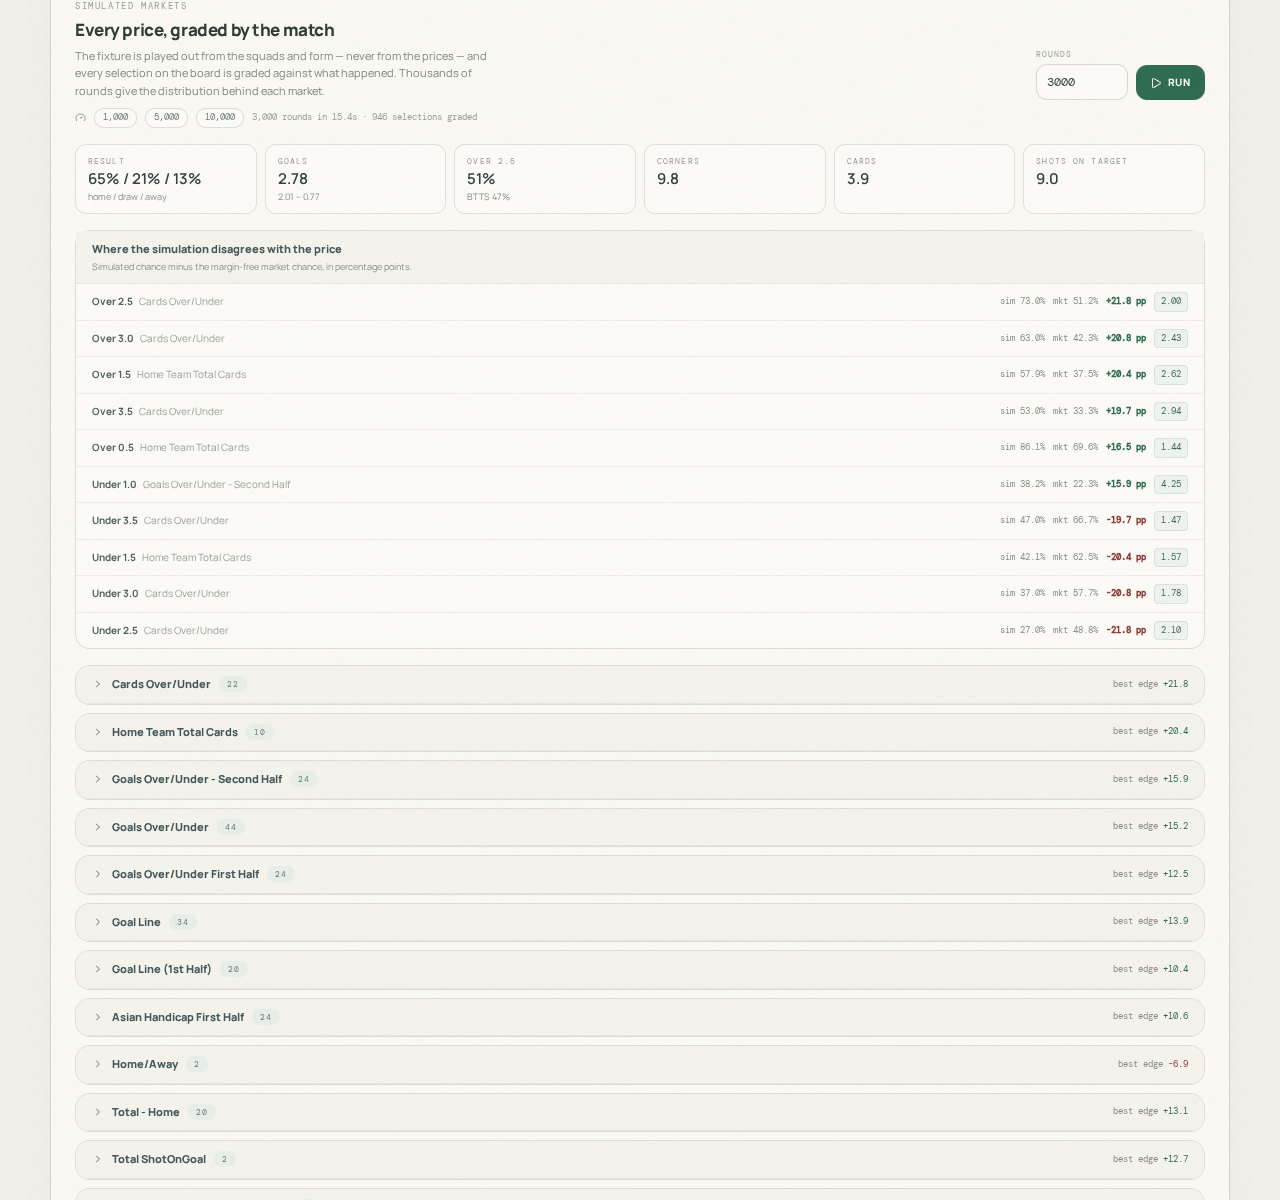
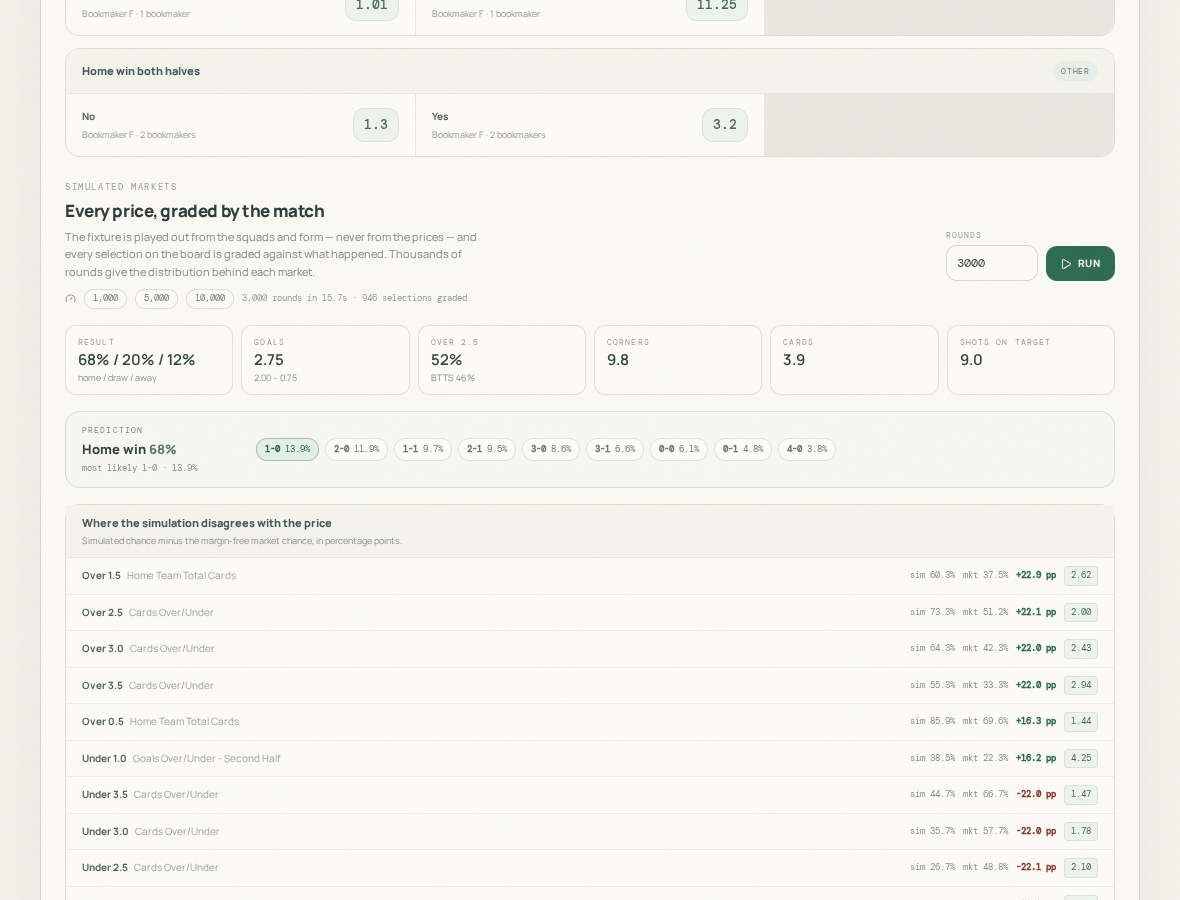
Make the engine defend, so scores look like football.
Shots were near-perfect and nothing obstructed them: a dozen headless matches
averaged 6.1 goals with 62% on target and never a 0-0. Shots now spread with
range, pressure and fatigue, defenders goal-side of the shooter block them, and
the keeper gets a save chance at the line instead of only stopping what the ball
happened to run into. The same bench now reads 2.56 goals a match with 0-0, 1-0
and 2-0 all turning up.

diff --git a/src/sim/match.js b/src/sim/match.js
@@ -1064,6 +1064,36 @@ export class Match {
     return { x: a.pos.x, z: a.pos.z, urgency: 0.3 };
   }
 
+  /**
+   * The shot has reached the line. A keeper who is a stride away from the ball
+   * still saves most of it, and even an open corner is roughly a coin flip
+   * rather than a certain goal — there is no such thing as a shot that cannot
+   * be stopped just because the striker aimed away from him.
+   */
+  keeperStops(keeper) {
+    const b = this.ball.pos;
+    const v = this.ball.vel;
+    const speed = Math.hypot(v.x, v.y, v.z);
+    const lateral = Math.abs(keeper.pos.z - b.z);
+    const reach = 0.5 + keeper.attrs.composure * 0.7;
+    let p =
+      lateral <= reach
+        ? 0.84
+        : clamp(1.15 - lateral / 5.6, 0, 0.84);
+    // Height and power beat him: the top corner is the hardest ball to stop.
+    if (b.y > 1.85) p *= 0.74;
+    if (b.y > 2.18) p *= 0.5;
+    p *= clamp(1.12 - speed / 76, 0.55, 1);
+    p *= 0.88 + keeper.attrs.composure * 0.18;
+    p *= 0.86 + keeper.stamina * 0.14;
+    if (!chance(p)) return false;
+
+    // He gets across and smothers it on the line.
+    b.x = Math.sign(b.x) * (GOAL_X - 0.45);
+    this.takePossession(keeper, speed, this.ball);
+    return true;
+  }
+
   // ---------------------------------------------------------------- perception
   perceive(a) {
     const team = this.teams[a.teamIdx];
@@ -1362,10 +1392,18 @@ export class Match {
     // accuracy: distance, pressure, technique, fatigue
     const pressure = clamp(1 - (ctx.nearestD - 1) / 3, 0, 1);
     const acc = at.shooting * 0.55 + at.composure * 0.3 + at.flair * 0.15;
-    const spreadRad = (0.062 + (1 - acc) * 0.15) * (1 + dist / 50) * (1 + pressure * 0.5) * (1 + (1 - a.stamina) * 0.55);
+    // Real shooting is far wilder than a straight line to the corner: about a
+    // third of shots on target, and less than that from range or under
+    // pressure. Accuracy here scales the angular spread, so a crowded box and
+    // tired legs push shots wide and over rather than into the net.
+    const spreadRad =
+      (0.105 + (1 - acc) * 0.3) *
+      (1 + dist / 42) *
+      (1 + pressure * 0.75) *
+      (1 + (1 - a.stamina) * 0.65);
     const spreadM = Math.tan(spreadRad) * dist;
-    let z0 = aimZ + randn() * spreadM * 0.5;
-    let y0 = aimY + randn() * spreadM * 0.35;
+    let z0 = aimZ + randn() * spreadM * 0.66;
+    let y0 = aimY + randn() * spreadM * 0.4;
 
     const target = new THREE.Vector3(goal.x + dir * 0.4, Math.max(0.25, y0), z0);
     const v = target.clone().sub(new THREE.Vector3(a.pos.x, this.ball.pos.y, a.pos.z)).normalize();
@@ -1380,6 +1418,35 @@ export class Match {
     a.stats.shots++;
     this.stats[team.idx].shots++;
     this.shots[team.idx]++;
+
+    // Defensive shape: a defender goal-side of the shooter and close enough to
+    // close him down gets in the way. This is what keeps a packed box from
+    // turning every attack into a clear sight of goal.
+    const opp = this.teams[1 - a.teamIdx];
+    const toGoalX = goal.x - a.pos.x;
+    const toGoalZ = goal.z - a.pos.z;
+    let blocker = null;
+    for (const d of this.active(opp)) {
+      if (d.role === 'GK' || d.sentOff) continue;
+      const dd = dist2D(d.pos, a.pos);
+      if (dd > 3.4) continue;
+      const inFront = (d.pos.x - a.pos.x) * toGoalX + (d.pos.z - a.pos.z) * toGoalZ > 0;
+      if (!inFront) continue;
+      const reach = 1 - dd / 3.4;
+      const blockP = clamp((0.1 + d.attrs.defending * 0.45) * reach * (1 - dist / 60), 0.02, 0.62);
+      if (chance(blockP) && (!blocker || dd < blocker.dd)) blocker = { d, dd };
+    }
+    if (blocker) {
+      const side = Math.random() < 0.5 ? -1 : 1;
+      this.ball.vel.set(-dir * 0.55, 0.35, side * (0.7 + Math.random() * 0.5)).normalize();
+      this.ball.vel.multiplyScalar(7 + Math.random() * 7);
+      this.ball.lastTouch = blocker.d;
+      this.ball.lastTouchTeam = opp.idx;
+      this.stats[opp.idx].blocks = (this.stats[opp.idx].blocks || 0) + 1;
+      this.onEvent({ type: 'block', text: `${blocker.d.name} throws himself in the way`, team: opp.idx, player: blocker.d.name });
+      return;
+    }
+
     const onTarget = Math.abs(z0) < HALF_G - 0.05 && y0 < GOAL_H;
     if (onTarget) {
       this.stats[team.idx].onTarget++;
@@ -1790,6 +1857,8 @@ export class Match {
       const scoringTeam = b.x > 0
         ? this.teams.find((t) => t.attackDir > 0)
         : this.teams.find((t) => t.attackDir < 0);
+      const keeper = this.active(this.teams[1 - scoringTeam.idx]).find((k) => k.role === 'GK');
+      if (keeper && this.keeperStops(keeper)) return;
       this.scoreGoal(scoringTeam);
       return;
     }

diff --git a/README.md b/README.md
@@ -117,6 +117,13 @@ grade a bookmaker's board against that record — every market, from the 1X2 to
 exact scores, quarter-line handicaps, corners and cards — without the engine
 knowing or caring what the prices were.
 
+Goals come out of that record honestly, so the engine has to defend as well as
+attack: defenders goal-side of a shooter block it, shots spread wider with range,
+pressure and fatigue, and a keeper gets a real chance at any shot that reaches
+the line. `node engine-bench.mjs 20` replays matches headlessly and prints the
+goal, shot and scoreline distribution — it should read about 2.5–2.7 goals a
+game with 0-0, 1-0 and 2-0 all plausible.
+
 ### Batch runs
 A host page can ask for the same fixture N times: the panel above the pitch takes
 a match count (1–50), a speed of 1–20×, and shows each round's scoreline when the
